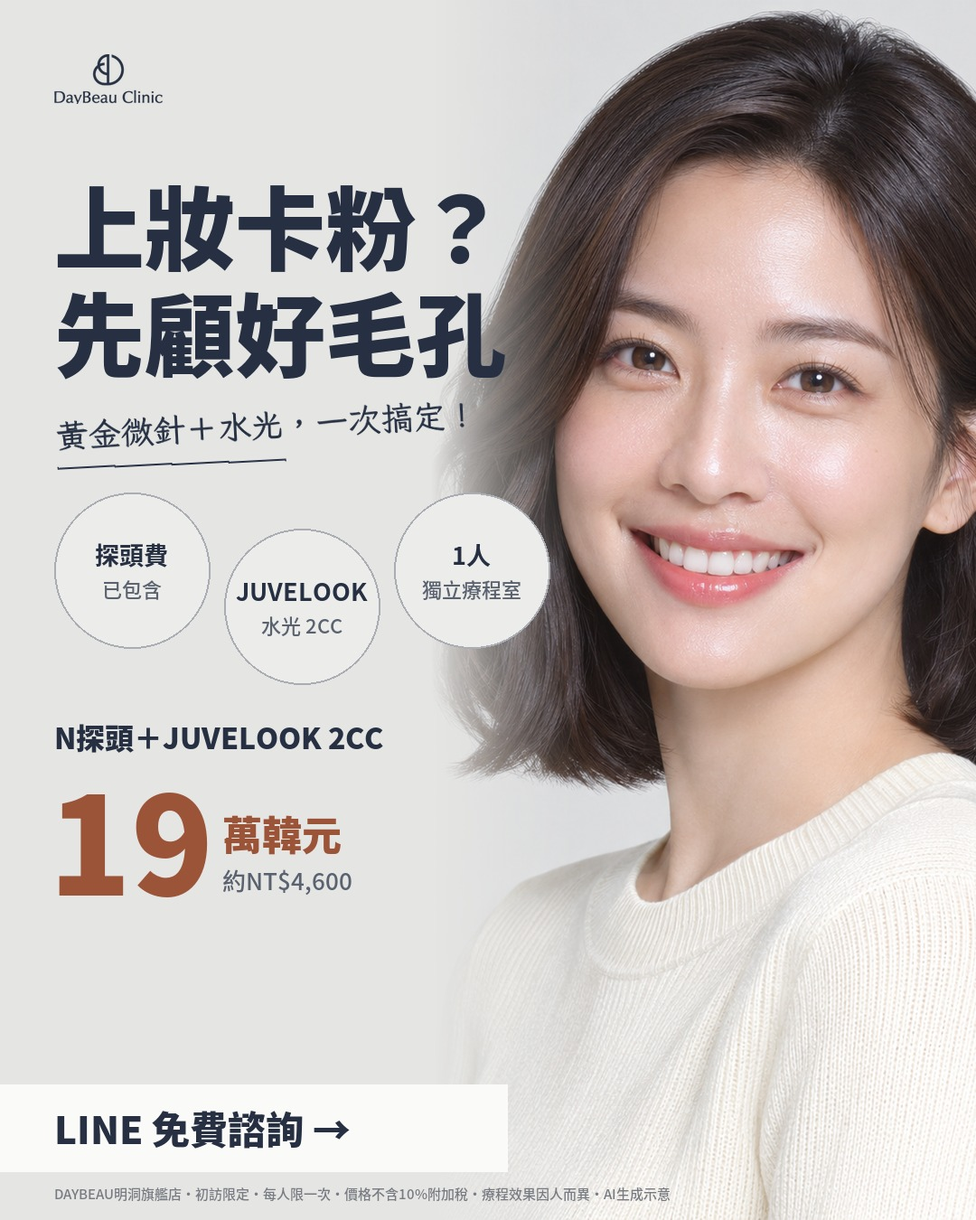
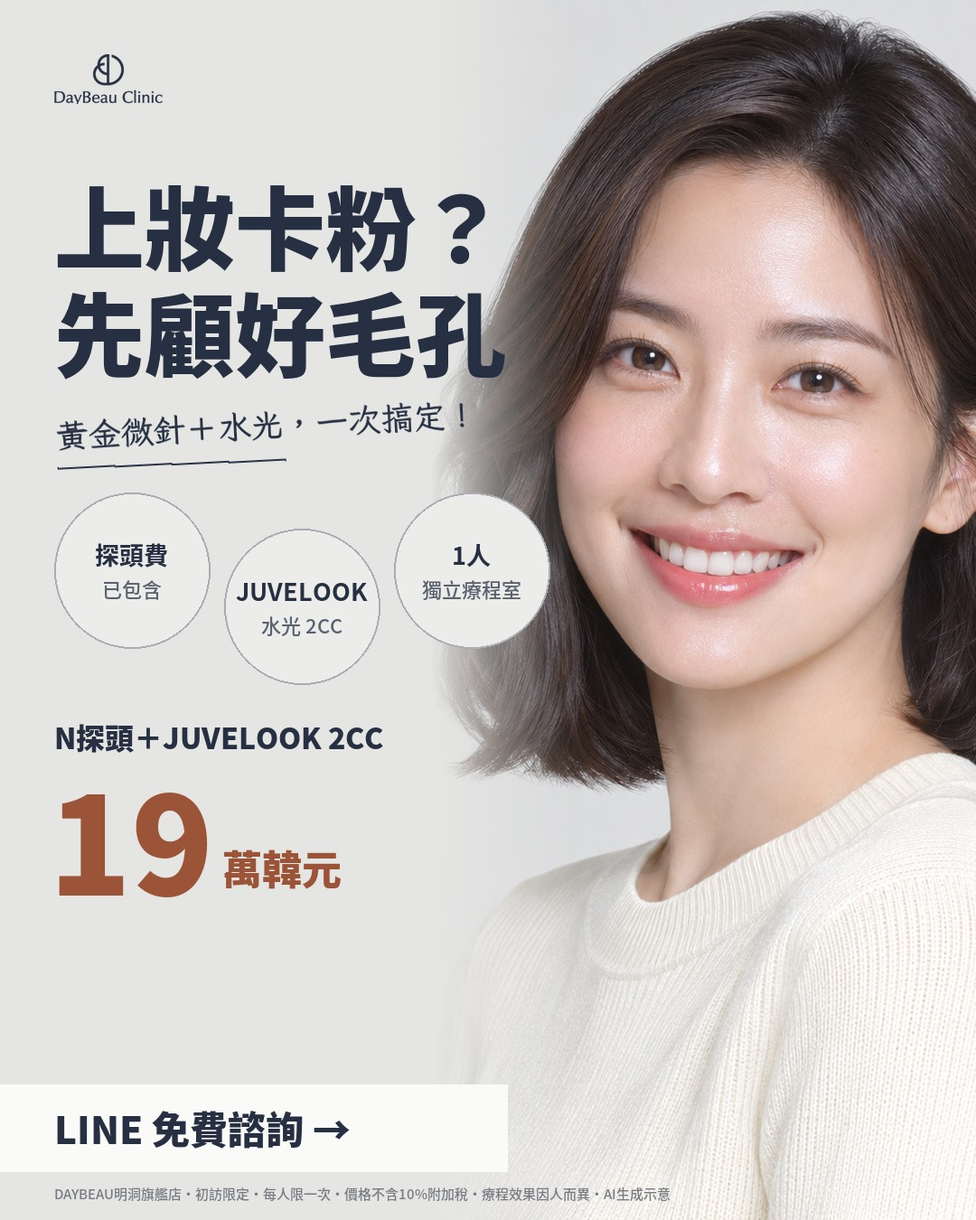
Claude: review-261112 게시

Changed region(s): [[0.2139, 0.6533, 0.3667, 0.7467]]

diff --git a/review-261112/index.html b/review-261112/index.html
@@ -17,29 +17,29 @@ table{border-collapse:collapse;width:100%;margin-top:14px;font-size:14px} td,th{
 <p class="lead">왼쪽 우리 소재(4:5), 오른쪽 짝지은 레퍼런스(2026-11-12 기준 집행 중인 광고. 온다_가격형1만 일본 광고, 나머지는 대만). 1:1·9:16 파일은 같은 이름으로 함께 있습니다. 빠진 소재: 온다_셀카형1, 포텐자쥬베룩_셀카형1, 플래시형, 진정형, 다이어리형.</p>
 <section><h2>온다울쎄라_고민형1 <span class="b new">새 화보</span></h2><p class="ref">레퍼런스: PRIA 「頸闊肌肉毒」 (2026-04-14부터 집행 중)</p>
 <div class="pair"><div class="ours"><img src="clips/온다울쎄라_고민형1_TW_4x5.jpg" alt=""></div><div class="theirs"><img src="ref/대만_4342478389414057_1.jpg" alt=""></div></div>
-<table><tr><th>번체</th><th>한국어</th></tr><tr><td lang='zh-Hant'>初訪限定！首爾明洞旗艦店</td><td>첫 방문 한정! 서울 명동 본점</td></tr><tr><td lang='zh-Hant'>下顎線條・臉頰鬆垮</td><td>턱선·볼 처짐</td></tr><tr><td lang='zh-Hant'>就靠『音波＋ONDA』</td><td>『울쎄라+온다』로 해결</td></tr><tr><td lang='zh-Hant'>99萬韓元 美國極線音波＋ONDA / 音波300發＋ONDA 40KJ・約NT$24,100</td><td>99만 원 미국 울쎄라+온다 / 울쎄라 300샷+온다 40KJ·약 NT$24,100</td></tr><tr><td lang='zh-Hant'>初訪限定・每人限一次・價格不含10%附加稅・療程效果因人而異・AI生成示意</td><td>첫 방문 한정·1인 1회·가격 부가세 10% 별도·효과는 개인차·AI 생성 이미지</td></tr></table></section><section><h2>포텐자쥬베룩_고민형1 <span class="b new">새 화보</span></h2><p class="ref">레퍼런스: PRIA 「凹凸不平的凹陷疤痕」 (2026-09-29부터 집행 중)</p>
+<table><tr><th>번체</th><th>한국어</th></tr><tr><td lang='zh-Hant'>初訪限定！首爾明洞旗艦店</td><td>첫 방문 한정! 서울 명동 본점</td></tr><tr><td lang='zh-Hant'>下顎線條・臉頰鬆垮</td><td>턱선·볼 처짐</td></tr><tr><td lang='zh-Hant'>就靠『音波＋ONDA』</td><td>『울쎄라+온다』로 해결</td></tr><tr><td lang='zh-Hant'>99萬韓元 美國極線音波＋ONDA / 音波300發＋ONDA 40KJ</td><td>99만 원 미국 울쎄라+온다 / 울쎄라 300샷+온다 40KJ</td></tr><tr><td lang='zh-Hant'>初訪限定・每人限一次・價格不含10%附加稅・療程效果因人而異・AI生成示意</td><td>첫 방문 한정·1인 1회·가격 부가세 10% 별도·효과는 개인차·AI 생성 이미지</td></tr></table></section><section><h2>포텐자쥬베룩_고민형1 <span class="b new">새 화보</span></h2><p class="ref">레퍼런스: PRIA 「凹凸不平的凹陷疤痕」 (2026-09-29부터 집행 중)</p>
 <div class="pair"><div class="ours"><img src="clips/포텐자쥬베룩_고민형1_TW_4x5.jpg" alt=""></div><div class="theirs"><img src="ref/대만_28200883912915810_1.jpg" alt=""></div></div>
-<table><tr><th>번체</th><th>한국어</th></tr><tr><td lang='zh-Hant'>每次上妝都很在意的毛孔</td><td>화장할 때마다 신경 쓰이는 모공</td></tr><tr><td lang='zh-Hant'>毛孔粗大、上妝卡粉，</td><td>넓은 모공, 화장 들뜸,</td></tr><tr><td lang='zh-Hant'>你還要遮到什麼時候？</td><td>언제까지 가릴 건가요?</td></tr><tr><td lang='zh-Hant'>19萬韓元 黃金微針＋水光 / N探頭＋JUVELOOK 2CC・約NT$4,600</td><td>19만 원 포텐자+물광 / N팁+쥬베룩 2cc·약 NT$4,600</td></tr><tr><td lang='zh-Hant'>初訪限定・每人限一次・價格不含10%附加稅・療程效果因人而異・AI生成示意</td><td>첫 방문 한정·1인 1회·가격 부가세 10% 별도·효과는 개인차·AI 생성 이미지</td></tr></table></section><section><h2>온다울쎄라_화보형1 <span class="b new">새 화보</span></h2><p class="ref">레퍼런스: 法喬醫美 「精緻感微翹鼻」 (대만 현지 병원, 2026-06-08부터 집행 중)</p>
+<table><tr><th>번체</th><th>한국어</th></tr><tr><td lang='zh-Hant'>每次上妝都很在意的毛孔</td><td>화장할 때마다 신경 쓰이는 모공</td></tr><tr><td lang='zh-Hant'>毛孔粗大、上妝卡粉，</td><td>넓은 모공, 화장 들뜸,</td></tr><tr><td lang='zh-Hant'>你還要遮到什麼時候？</td><td>언제까지 가릴 건가요?</td></tr><tr><td lang='zh-Hant'>19萬韓元 黃金微針＋水光 / N探頭＋JUVELOOK 2CC</td><td>19만 원 포텐자+물광 / N팁+쥬베룩 2cc</td></tr><tr><td lang='zh-Hant'>初訪限定・每人限一次・價格不含10%附加稅・療程效果因人而異・AI生成示意</td><td>첫 방문 한정·1인 1회·가격 부가세 10% 별도·효과는 개인차·AI 생성 이미지</td></tr></table></section><section><h2>온다울쎄라_화보형1 <span class="b new">새 화보</span></h2><p class="ref">레퍼런스: 法喬醫美 「精緻感微翹鼻」 (대만 현지 병원, 2026-06-08부터 집행 중)</p>
 <div class="pair"><div class="ours"><img src="clips/온다울쎄라_화보형1_TW_4x5.jpg" alt=""></div><div class="theirs"><img src="ref/대만_4453394234914423_1.jpg" alt=""></div></div>
-<table><tr><th>번체</th><th>한국어</th></tr><tr><td lang='zh-Hant'>「首爾明洞旗艦店・初訪人氣組合」</td><td>「서울 명동 본점·첫 방문 인기 조합」</td></tr><tr><td lang='zh-Hant'>俐落輪廓感</td><td>날렵한 윤곽</td></tr><tr><td lang='zh-Hant'>99萬韓元 美國極線音波＋ONDA / 音波300發＋ONDA 40KJ・約NT$24,100</td><td>99만 원 미국 울쎄라+온다 / 울쎄라 300샷+온다 40KJ·약 NT$24,100</td></tr><tr><td lang='zh-Hant'>初訪限定・每人限一次・價格不含10%附加稅・療程效果因人而異・AI生成示意</td><td>첫 방문 한정·1인 1회·가격 부가세 10% 별도·효과는 개인차·AI 생성 이미지</td></tr></table></section><section><h2>포텐자쥬베룩_화보형1 <span class="b new">새 화보</span></h2><p class="ref">레퍼런스: 法喬醫美 「胸形到位」 (대만 현지 병원, 2026-10-05부터 집행 중)</p>
+<table><tr><th>번체</th><th>한국어</th></tr><tr><td lang='zh-Hant'>「首爾明洞旗艦店・初訪人氣組合」</td><td>「서울 명동 본점·첫 방문 인기 조합」</td></tr><tr><td lang='zh-Hant'>俐落輪廓感</td><td>날렵한 윤곽</td></tr><tr><td lang='zh-Hant'>99萬韓元 美國極線音波＋ONDA / 音波300發＋ONDA 40KJ</td><td>99만 원 미국 울쎄라+온다 / 울쎄라 300샷+온다 40KJ</td></tr><tr><td lang='zh-Hant'>初訪限定・每人限一次・價格不含10%附加稅・療程效果因人而異・AI生成示意</td><td>첫 방문 한정·1인 1회·가격 부가세 10% 별도·효과는 개인차·AI 생성 이미지</td></tr></table></section><section><h2>포텐자쥬베룩_화보형1 <span class="b new">새 화보</span></h2><p class="ref">레퍼런스: 法喬醫美 「胸形到位」 (대만 현지 병원, 2026-10-05부터 집행 중)</p>
 <div class="pair"><div class="ours"><img src="clips/포텐자쥬베룩_화보형1_TW_4x5.jpg" alt=""></div><div class="theirs"><img src="ref/대만_2097931534149470_1.jpg" alt=""></div></div>
-<table><tr><th>번체</th><th>한국어</th></tr><tr><td lang='zh-Hant'>上妝卡粉？先顧好毛孔</td><td>화장이 들뜬다면? 모공부터 챙기세요</td></tr><tr><td lang='zh-Hant'>黃金微針＋水光，一次搞定！</td><td>포텐자+물광, 한 번에 해결!</td></tr><tr><td lang='zh-Hant'>探頭費已包含 / JUVELOOK 水光 2CC / 1人獨立療程室</td><td>팁 비용 포함 / 쥬베룩 물광 2cc / 1인 단독 시술실</td></tr><tr><td lang='zh-Hant'>N探頭＋JUVELOOK 2CC 19萬韓元 約NT$4,600</td><td>N팁+쥬베룩 2cc 19만 원 약 NT$4,600</td></tr><tr><td lang='zh-Hant'>LINE 免費諮詢 →</td><td>LINE 무료 상담 →</td></tr><tr><td lang='zh-Hant'>初訪限定・每人限一次・價格不含10%附加稅・療程效果因人而異・AI生成示意</td><td>첫 방문 한정·1인 1회·가격 부가세 10% 별도·효과는 개인차·AI 생성 이미지</td></tr></table></section><section><h2>온다_분할형1 <span class="b new">새 화보</span></h2><p class="ref">레퍼런스: 톡스앤필 명동 「SCULPTRA 1瓶 65萬韓元」 (2026-08-20부터 집행 중)</p>
+<table><tr><th>번체</th><th>한국어</th></tr><tr><td lang='zh-Hant'>上妝卡粉？先顧好毛孔</td><td>화장이 들뜬다면? 모공부터 챙기세요</td></tr><tr><td lang='zh-Hant'>黃金微針＋水光，一次搞定！</td><td>포텐자+물광, 한 번에 해결!</td></tr><tr><td lang='zh-Hant'>探頭費已包含 / JUVELOOK 水光 2CC / 1人獨立療程室</td><td>팁 비용 포함 / 쥬베룩 물광 2cc / 1인 단독 시술실</td></tr><tr><td lang='zh-Hant'>N探頭＋JUVELOOK 2CC 19萬韓元</td><td>N팁+쥬베룩 2cc 19만 원</td></tr><tr><td lang='zh-Hant'>LINE 免費諮詢 →</td><td>LINE 무료 상담 →</td></tr><tr><td lang='zh-Hant'>初訪限定・每人限一次・價格不含10%附加稅・療程效果因人而異・AI生成示意</td><td>첫 방문 한정·1인 1회·가격 부가세 10% 별도·효과는 개인차·AI 생성 이미지</td></tr></table></section><section><h2>온다_분할형1 <span class="b new">새 화보</span></h2><p class="ref">레퍼런스: 톡스앤필 명동 「SCULPTRA 1瓶 65萬韓元」 (2026-08-20부터 집행 중)</p>
 <div class="pair"><div class="ours"><img src="clips/온다_분할형1_TW_4x5.jpg" alt=""></div><div class="theirs"><img src="ref/대만_2325900291484842_1.jpg" alt=""></div></div>
-<table><tr><th>번체</th><th>한국어</th></tr><tr><td lang='zh-Hant'>FIRST VISIT 初訪限定</td><td>첫 방문 한정</td></tr><tr><td lang='zh-Hant'>微波緊緻拉提 ONDA</td><td>마이크로웨이브 탄력 리프팅 온다</td></tr><tr><td lang='zh-Hant'>每10KJ 3.9萬・最多加購至30KJ</td><td>10KJ당 3.9만·최대 30KJ까지 추가</td></tr><tr><td lang='zh-Hant'>ONDA 10KJ 3.9萬韓元 約NT$950</td><td>온다 10KJ 3.9만 원 약 NT$950</td></tr><tr><td lang='zh-Hant'>本價格未包含10%的附加稅・初訪限定每人一次</td><td>부가세 10% 별도·첫 방문 1인 1회</td></tr></table></section><section><h2>온다울쎄라_분할형1 <span class="b new">새 화보</span></h2><p class="ref">레퍼런스: 톡스앤필 명동 「SCULPTRA 1瓶 65萬韓元」 (2026-08-20부터 집행 중)</p>
+<table><tr><th>번체</th><th>한국어</th></tr><tr><td lang='zh-Hant'>FIRST VISIT 初訪限定</td><td>첫 방문 한정</td></tr><tr><td lang='zh-Hant'>微波緊緻拉提 ONDA</td><td>마이크로웨이브 탄력 리프팅 온다</td></tr><tr><td lang='zh-Hant'>每10KJ 3.9萬・最多加購至30KJ</td><td>10KJ당 3.9만·최대 30KJ까지 추가</td></tr><tr><td lang='zh-Hant'>ONDA 10KJ 3.9萬韓元</td><td>온다 10KJ 3.9만 원</td></tr><tr><td lang='zh-Hant'>本價格未包含10%的附加稅・初訪限定每人一次</td><td>부가세 10% 별도·첫 방문 1인 1회</td></tr></table></section><section><h2>온다울쎄라_분할형1 <span class="b new">새 화보</span></h2><p class="ref">레퍼런스: 톡스앤필 명동 「SCULPTRA 1瓶 65萬韓元」 (2026-08-20부터 집행 중)</p>
 <div class="pair"><div class="ours"><img src="clips/온다울쎄라_분할형1_TW_4x5.jpg" alt=""></div><div class="theirs"><img src="ref/대만_2325900291484842_1.jpg" alt=""></div></div>
-<table><tr><th>번체</th><th>한국어</th></tr><tr><td lang='zh-Hant'>美國極線音波＋ONDA / ULTHERAPY × ONDA</td><td>미국 울쎄라+온다</td></tr><tr><td lang='zh-Hant'>筋膜層＋脂肪層 一次處理</td><td>근막층+지방층 한 번에</td></tr><tr><td lang='zh-Hant'>音波300發＋ONDA 40KJ 99萬韓元 約NT$24,100</td><td>울쎄라 300샷+온다 40KJ 99만 원 약 NT$24,100</td></tr></table></section><section><h2>포텐자쥬베룩_분할형1 <span class="b new">새 화보</span></h2><p class="ref">레퍼런스: 톡스앤필 명동 「SCULPTRA 1瓶 65萬韓元」 (2026-08-20부터 집행 중)</p>
+<table><tr><th>번체</th><th>한국어</th></tr><tr><td lang='zh-Hant'>美國極線音波＋ONDA / ULTHERAPY × ONDA</td><td>미국 울쎄라+온다</td></tr><tr><td lang='zh-Hant'>筋膜層＋脂肪層 一次處理</td><td>근막층+지방층 한 번에</td></tr><tr><td lang='zh-Hant'>音波300發＋ONDA 40KJ 99萬韓元</td><td>울쎄라 300샷+온다 40KJ 99만 원</td></tr></table></section><section><h2>포텐자쥬베룩_분할형1 <span class="b new">새 화보</span></h2><p class="ref">레퍼런스: 톡스앤필 명동 「SCULPTRA 1瓶 65萬韓元」 (2026-08-20부터 집행 중)</p>
 <div class="pair"><div class="ours"><img src="clips/포텐자쥬베룩_분할형1_TW_4x5.jpg" alt=""></div><div class="theirs"><img src="ref/대만_2325900291484842_1.jpg" alt=""></div></div>
-<table><tr><th>번체</th><th>한국어</th></tr><tr><td lang='zh-Hant'>黃金微針＋水光 / POTENZA × JUVELOOK</td><td>포텐자+물광 / 포텐자×쥬베룩</td></tr><tr><td lang='zh-Hant'>探頭費已包含・毛孔×膚質</td><td>팁 비용 포함·모공×피부결</td></tr><tr><td lang='zh-Hant'>N探頭＋JUVELOOK 2CC 19萬韓元 約NT$4,600</td><td>N팁+쥬베룩 2cc 19만 원 약 NT$4,600</td></tr></table></section><section><h2>온다울쎄라_가이드형1 <span class="b new">새 화보</span></h2><p class="ref">레퍼런스: PRIA 「天鵝頸肉毒」 (2026-05-01부터 집행 중)</p>
+<table><tr><th>번체</th><th>한국어</th></tr><tr><td lang='zh-Hant'>黃金微針＋水光 / POTENZA × JUVELOOK</td><td>포텐자+물광 / 포텐자×쥬베룩</td></tr><tr><td lang='zh-Hant'>探頭費已包含・毛孔×膚質</td><td>팁 비용 포함·모공×피부결</td></tr><tr><td lang='zh-Hant'>N探頭＋JUVELOOK 2CC 19萬韓元</td><td>N팁+쥬베룩 2cc 19만 원</td></tr></table></section><section><h2>온다울쎄라_가이드형1 <span class="b new">새 화보</span></h2><p class="ref">레퍼런스: PRIA 「天鵝頸肉毒」 (2026-05-01부터 집행 중)</p>
 <div class="pair"><div class="ours"><img src="clips/온다울쎄라_가이드형1_TW_4x5.jpg" alt=""></div><div class="theirs"><img src="ref/대만_1389311029899679_1.jpg" alt=""></div></div>
-<table><tr><th>번체</th><th>한국어</th></tr><tr><td lang='zh-Hant'>下顎線條拉提</td><td>턱선 리프팅</td></tr><tr><td lang='zh-Hant'>音波＋ONDA 筋膜層＋脂肪層一次處理</td><td>울쎄라+온다 근막층+지방층 한 번에</td></tr><tr><td lang='zh-Hant'>99萬韓元 美國極線音波＋ONDA / 音波300發＋ONDA 40KJ・約NT$24,100</td><td>99만 원 미국 울쎄라+온다 / 울쎄라 300샷+온다 40KJ·약 NT$24,100</td></tr><tr><td lang='zh-Hant'>初訪限定・每人限一次・價格不含10%附加稅・療程效果因人而異・AI生成示意</td><td>첫 방문 한정·1인 1회·가격 부가세 10% 별도·효과는 개인차·AI 생성 이미지</td></tr></table></section><section><h2>포텐자쥬베룩_정보형1 <span class="b new">새 화보</span></h2><p class="ref">레퍼런스: ZERO LAB 「麗珠蘭」 (2026-09-21부터 집행 중)</p>
+<table><tr><th>번체</th><th>한국어</th></tr><tr><td lang='zh-Hant'>下顎線條拉提 / 美國極線音波＋ONDA</td><td>턱선 리프팅 / 미국 울쎄라+온다</td></tr><tr><td lang='zh-Hant'>音波＋ONDA 下顎・頸部線條更俐落，筋膜層＋脂肪層一次處理！</td><td>울쎄라+온다로 턱·목 라인을 더 깔끔하게, 근막층+지방층 한 번에!</td></tr><tr><td lang='zh-Hant'>初訪限定・每人限一次</td><td>첫 방문 한정·1인 1회</td></tr><tr><td lang='zh-Hant'>99萬韓元 美國極線音波＋ONDA / 音波300發＋ONDA 40KJ</td><td>99만 원 미국 울쎄라+온다 / 울쎄라 300샷+온다 40KJ</td></tr><tr><td lang='zh-Hant'>初訪限定・每人限一次・價格不含10%附加稅・療程效果因人而異・AI生成示意</td><td>첫 방문 한정·1인 1회·가격 부가세 10% 별도·효과는 개인차·AI 생성 이미지</td></tr></table></section><section><h2>포텐자쥬베룩_정보형1 <span class="b new">새 화보</span></h2><p class="ref">레퍼런스: ZERO LAB 「麗珠蘭」 (2026-09-21부터 집행 중)</p>
 <div class="pair"><div class="ours"><img src="clips/포텐자쥬베룩_정보형1_TW_4x5.jpg" alt=""></div><div class="theirs"><img src="ref/대만_1547164503760365_1.jpg" alt=""></div></div>
-<table><tr><th>번체</th><th>한국어</th></tr><tr><td lang='zh-Hant'>黃金微針 ＋JUVELOOK水光 喚醒細緻膚質</td><td>포텐자 +쥬베룩 물광, 매끈한 피부결로</td></tr><tr><td lang='zh-Hant'>探頭費已包含 / 改善毛孔粗大 / 水光保濕光澤</td><td>팁 비용 포함 / 넓은 모공 개선 / 물광 보습 윤기</td></tr><tr><td lang='zh-Hant'>N探頭＋JUVELOOK 2CC・初訪限定</td><td>N팁+쥬베룩 2cc·첫 방문 한정</td></tr><tr><td lang='zh-Hant'>19萬韓元 約NT$4,600</td><td>19만 원 약 NT$4,600</td></tr><tr><td lang='zh-Hant'>初訪限定・每人限一次・價格不含10%附加稅・療程效果因人而異・AI生成示意</td><td>첫 방문 한정·1인 1회·가격 부가세 10% 별도·효과는 개인차·AI 생성 이미지</td></tr></table></section><section><h2>온다_혜택형1 <span class="b new">새 화보</span></h2><p class="ref">레퍼런스: toxnfill 「金秋限時折 美麗再升級」 (2026-09-08부터 집행 중)</p>
+<table><tr><th>번체</th><th>한국어</th></tr><tr><td lang='zh-Hant'>黃金微針 ＋JUVELOOK水光 喚醒細緻膚質</td><td>포텐자 +쥬베룩 물광, 매끈한 피부결로</td></tr><tr><td lang='zh-Hant'>探頭費已包含 / 改善毛孔粗大 / 水光保濕光澤</td><td>팁 비용 포함 / 넓은 모공 개선 / 물광 보습 윤기</td></tr><tr><td lang='zh-Hant'>N探頭＋JUVELOOK 2CC・初訪限定</td><td>N팁+쥬베룩 2cc·첫 방문 한정</td></tr><tr><td lang='zh-Hant'>19萬韓元</td><td>19만 원</td></tr><tr><td lang='zh-Hant'>初訪限定・每人限一次・價格不含10%附加稅・療程效果因人而異・AI生成示意</td><td>첫 방문 한정·1인 1회·가격 부가세 10% 별도·효과는 개인차·AI 생성 이미지</td></tr></table></section><section><h2>온다_혜택형1 <span class="b new">새 화보</span></h2><p class="ref">레퍼런스: toxnfill 「金秋限時折 美麗再升級」 (2026-09-08부터 집행 중)</p>
 <div class="pair"><div class="ours"><img src="clips/온다_혜택형1_TW_4x5.jpg" alt=""></div><div class="theirs"><img src="ref/대만_2887912921565432_1.jpg" alt=""></div></div>
-<table><tr><th>번체</th><th>한국어</th></tr><tr><td lang='zh-Hant'>首爾明洞旗艦店・初訪限定</td><td>서울 명동 본점·첫 방문 한정</td></tr><tr><td lang='zh-Hant'>ONDA微波拉提 初訪3.9萬起</td><td>온다 리프팅 첫 방문 3.9만 원부터</td></tr><tr><td lang='zh-Hant'>1 ONDA 10KJ 3.9萬韓元 / 初訪限定每人一次・約NT$950</td><td>1 온다 10KJ 3.9만 원 / 첫 방문 1인 1회·약 NT$950</td></tr><tr><td lang='zh-Hant'>2 每加10KJ 3.9萬韓元 / 最多可加購至30KJ</td><td>2 10KJ 추가마다 3.9만 원 / 최대 30KJ까지 추가</td></tr><tr><td lang='zh-Hant'>3 1人獨立療程室 / LINE 免費諮詢・預約</td><td>3 1인 단독 시술실 / LINE 무료 상담·예약</td></tr><tr><td lang='zh-Hant'>初訪限定・每人限一次・價格不含10%附加稅・療程效果因人而異・AI生成示意</td><td>첫 방문 한정·1인 1회·가격 부가세 10% 별도·효과는 개인차·AI 생성 이미지</td></tr></table></section><section><h2>온다_가격형1 <span class="b new">새 화보</span></h2><p class="ref">레퍼런스: 지유클리닉 일본 광고 ONDA 「20万ウォン 初回限定価格」 (2026-07-21부터 집행 중, 무드 맞춰 대만어로 옮김)</p>
+<table><tr><th>번체</th><th>한국어</th></tr><tr><td lang='zh-Hant'>首爾明洞旗艦店・初訪限定</td><td>서울 명동 본점·첫 방문 한정</td></tr><tr><td lang='zh-Hant'>ONDA微波拉提 初訪3.9萬起</td><td>온다 리프팅 첫 방문 3.9만 원부터</td></tr><tr><td lang='zh-Hant'>1 ONDA 10KJ 3.9萬韓元 / 初訪限定每人一次</td><td>1 온다 10KJ 3.9만 원 / 첫 방문 1인 1회</td></tr><tr><td lang='zh-Hant'>2 每加10KJ 3.9萬韓元 / 最多可加購至30KJ</td><td>2 10KJ 추가마다 3.9만 원 / 최대 30KJ까지 추가</td></tr><tr><td lang='zh-Hant'>3 1人獨立療程室 / LINE 免費諮詢・預約</td><td>3 1인 단독 시술실 / LINE 무료 상담·예약</td></tr><tr><td lang='zh-Hant'>初訪限定・每人限一次・價格不含10%附加稅・療程效果因人而異・AI生成示意</td><td>첫 방문 한정·1인 1회·가격 부가세 10% 별도·효과는 개인차·AI 생성 이미지</td></tr></table></section><section><h2>온다_가격형1 <span class="b new">새 화보</span></h2><p class="ref">레퍼런스: 지유클리닉 일본 광고 ONDA 「20万ウォン 初回限定価格」 (2026-07-21부터 집행 중, 무드 맞춰 대만어로 옮김)</p>
 <div class="pair"><div class="ours"><img src="clips/온다_가격형1_TW_4x5.jpg" alt=""></div><div class="theirs"><img src="ref/일본_지유클리닉_1767303938054227_1.jpg" alt=""></div></div>
-<table><tr><th>번체</th><th>한국어</th></tr><tr><td lang='zh-Hant'>3.9萬韓元 約NT$950</td><td>3.9만 원 약 NT$950</td></tr><tr><td lang='zh-Hant'>ONDA微波拉提・雙下巴・臉頰鬆垮</td><td>온다 리프팅·이중턱·볼 처짐</td></tr><tr><td lang='zh-Hant'>微波能量深入脂肪層，緊緻輪廓線條！</td><td>마이크로웨이브가 지방층까지, 윤곽 라인을 탄탄하게!</td></tr><tr><td lang='zh-Hant'>初訪限定價格 10KJ</td><td>첫 방문 한정 가격 10KJ</td></tr><tr><td lang='zh-Hant'>初訪限定・每人限一次・價格不含10%附加稅・療程效果因人而異・AI生成示意</td><td>첫 방문 한정·1인 1회·가격 부가세 10% 별도·효과는 개인차·AI 생성 이미지</td></tr></table></section><section><h2>온다_띠형1 <span class="b new">새 화보</span></h2><p class="ref">레퍼런스: 오션클리닉 「首爾江南站 皮膚科」 (2026-07-10부터 집행 중)</p>
+<table><tr><th>번체</th><th>한국어</th></tr><tr><td lang='zh-Hant'>3.9萬韓元</td><td>3.9만 원</td></tr><tr><td lang='zh-Hant'>ONDA微波拉提・雙下巴・臉頰鬆垮</td><td>온다 리프팅·이중턱·볼 처짐</td></tr><tr><td lang='zh-Hant'>微波能量深入脂肪層，緊緻輪廓線條！</td><td>마이크로웨이브가 지방층까지, 윤곽 라인을 탄탄하게!</td></tr><tr><td lang='zh-Hant'>初訪限定價格 10KJ</td><td>첫 방문 한정 가격 10KJ</td></tr><tr><td lang='zh-Hant'>初訪限定・每人限一次・價格不含10%附加稅・療程效果因人而異・AI生成示意</td><td>첫 방문 한정·1인 1회·가격 부가세 10% 별도·효과는 개인차·AI 생성 이미지</td></tr></table></section><section><h2>온다_띠형1 <span class="b new">새 화보</span></h2><p class="ref">레퍼런스: 오션클리닉 「首爾江南站 皮膚科」 (2026-07-10부터 집행 중)</p>
 <div class="pair"><div class="ours"><img src="clips/온다_띠형1_TW_4x5.jpg" alt=""></div><div class="theirs"><img src="ref/대만_1349525763207692_1.jpg" alt=""></div></div>
-<table><tr><th>번체</th><th>한국어</th></tr><tr><td lang='zh-Hant'>首爾明洞 皮膚科</td><td>서울 명동 피부과</td></tr><tr><td lang='zh-Hant'>微波能量 緊緻全臉輪廓</td><td>마이크로웨이브로 얼굴 윤곽 전체를 탄탄하게</td></tr><tr><td lang='zh-Hant'>ONDA 10KJ 3.9萬韓元</td><td>온다 10KJ 3.9만 원</td></tr><tr><td lang='zh-Hant'>DAYBEAU 明洞旗艦店・初訪限定 約NT$950</td><td>데이뷰 명동 본점·첫 방문 한정 약 NT$950</td></tr><tr><td lang='zh-Hant'>初訪限定・每人限一次・價格不含10%附加稅・療程效果因人而異・AI生成示意</td><td>첫 방문 한정·1인 1회·가격 부가세 10% 별도·효과는 개인차·AI 생성 이미지</td></tr></table></section><section><h2>전체시술_혜택형1 <span class="b keep">유지</span></h2><p class="ref">레퍼런스: 데이뷰 대만 「LIFTING BENEFIT」 (사진 없는 가격 카드, 레퍼런스대로 유지)</p>
+<table><tr><th>번체</th><th>한국어</th></tr><tr><td lang='zh-Hant'>首爾明洞 皮膚科</td><td>서울 명동 피부과</td></tr><tr><td lang='zh-Hant'>微波能量 緊緻全臉輪廓</td><td>마이크로웨이브로 얼굴 윤곽 전체를 탄탄하게</td></tr><tr><td lang='zh-Hant'>ONDA 10KJ 3.9萬韓元</td><td>온다 10KJ 3.9만 원</td></tr><tr><td lang='zh-Hant'>DAYBEAU 明洞旗艦店・初訪限定</td><td>데이뷰 명동 본점·첫 방문 한정</td></tr><tr><td lang='zh-Hant'>初訪限定・每人限一次・價格不含10%附加稅・療程效果因人而異・AI生成示意</td><td>첫 방문 한정·1인 1회·가격 부가세 10% 별도·효과는 개인차·AI 생성 이미지</td></tr></table></section><section><h2>전체시술_혜택형1 <span class="b keep">유지</span></h2><p class="ref">레퍼런스: 데이뷰 대만 「LIFTING BENEFIT」 (사진 없는 가격 카드, 레퍼런스대로 유지)</p>
 <div class="pair"><div class="ours"><img src="clips/v3_benefit.jpg" alt=""></div><div class="theirs"><div class="noref">레퍼런스 이미지 없음<br>(구조만 따름)</div></div></div>
 </section><section><h2>전체시술_메뉴형1 <span class="b keep">유지</span></h2><p class="ref">레퍼런스: 가격표만, 그대로 유지</p>
 <div class="pair"><div class="ours"><img src="clips/v3_menu.jpg" alt=""></div><div class="theirs"><div class="noref">레퍼런스 이미지 없음<br>(구조만 따름)</div></div></div>
